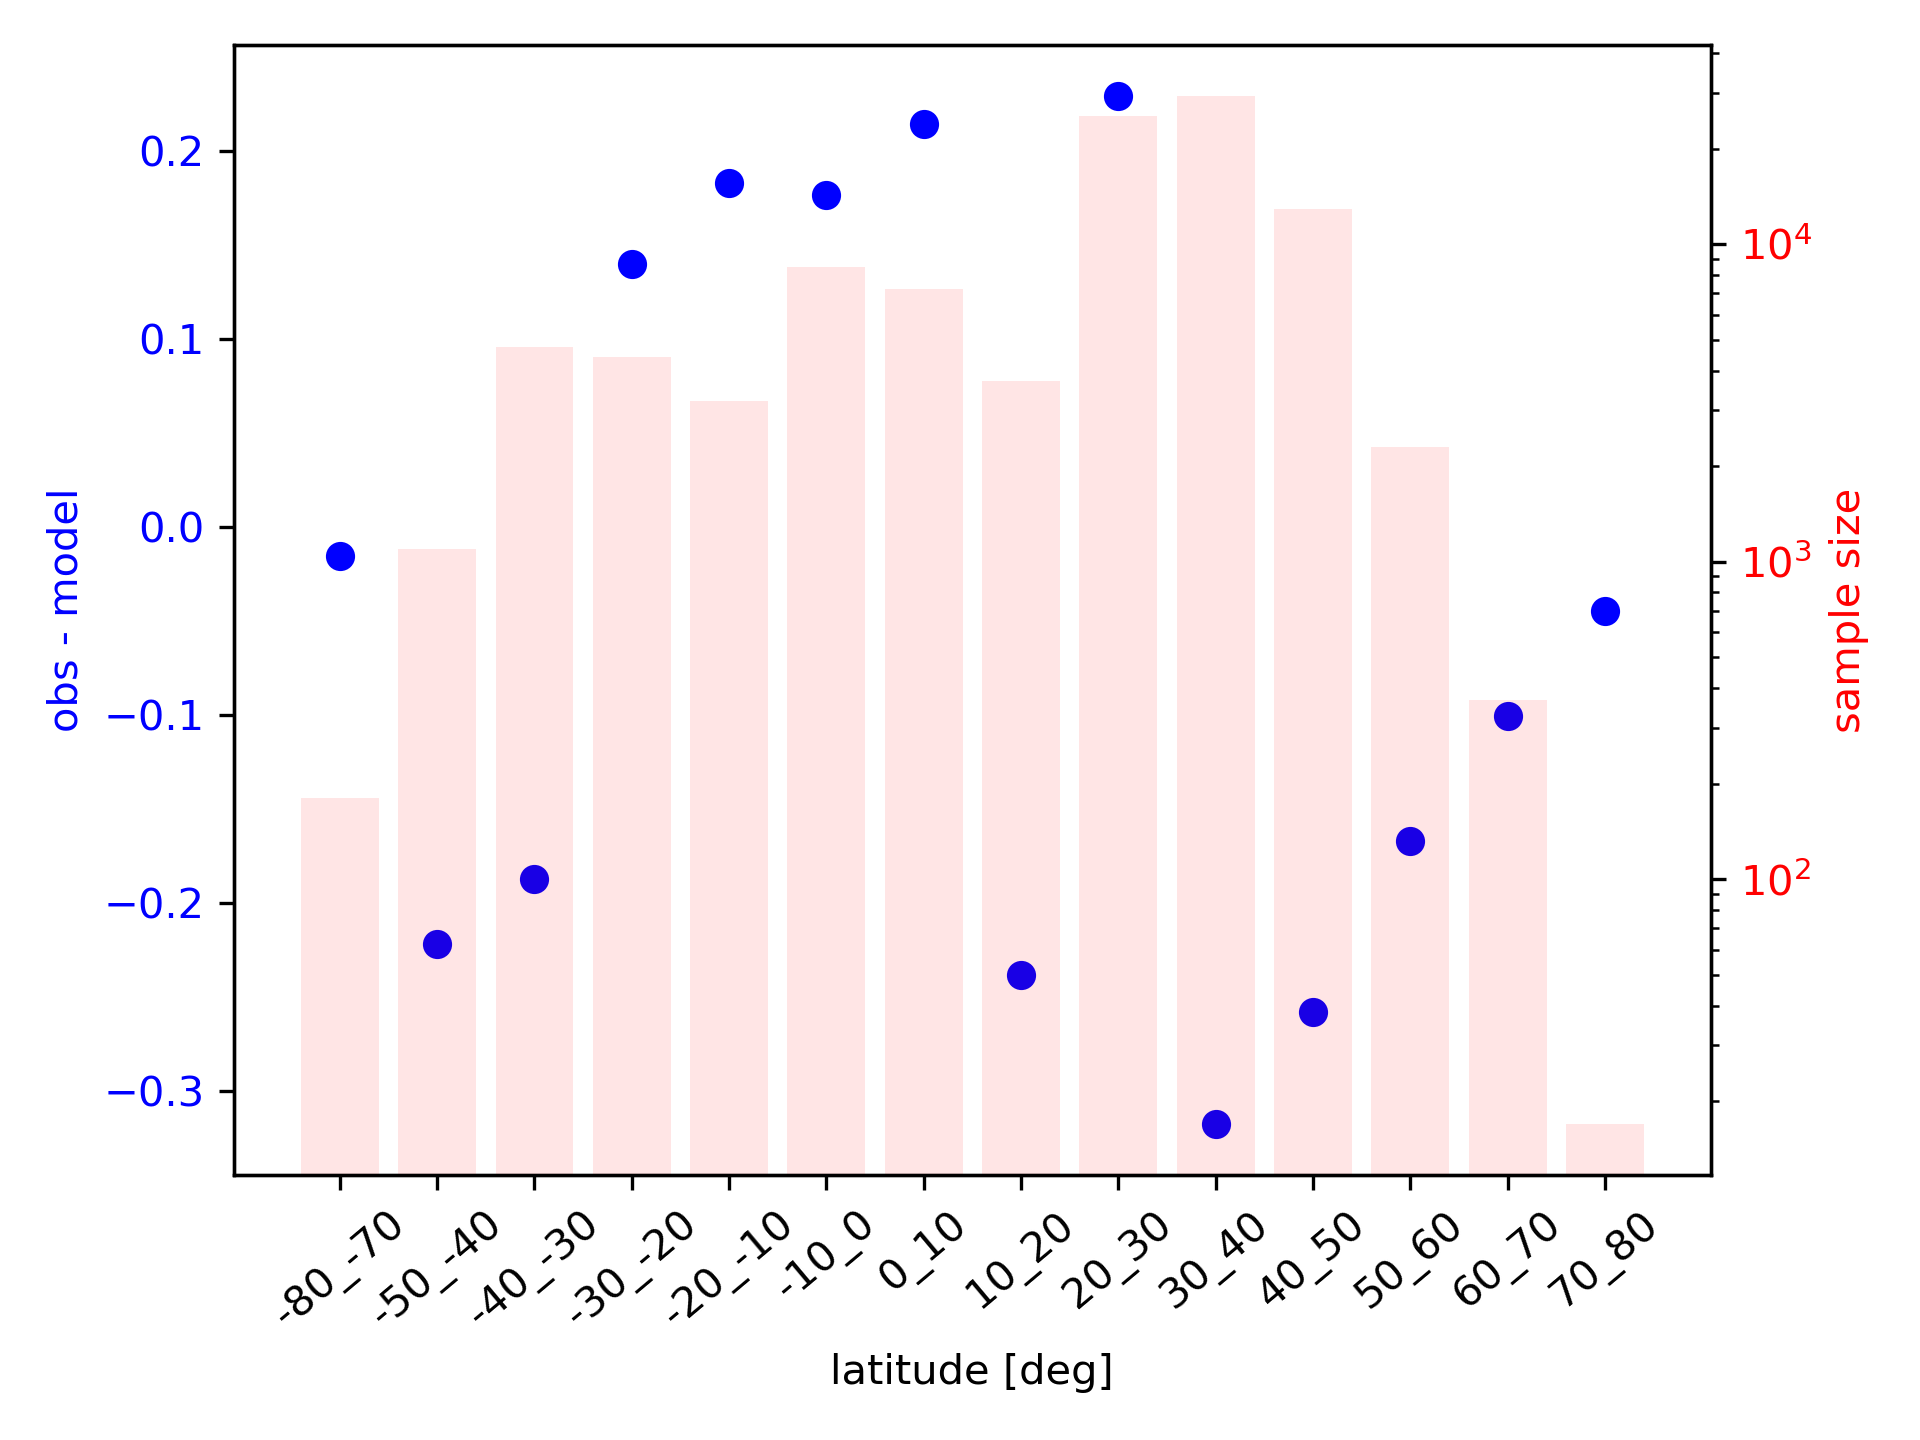
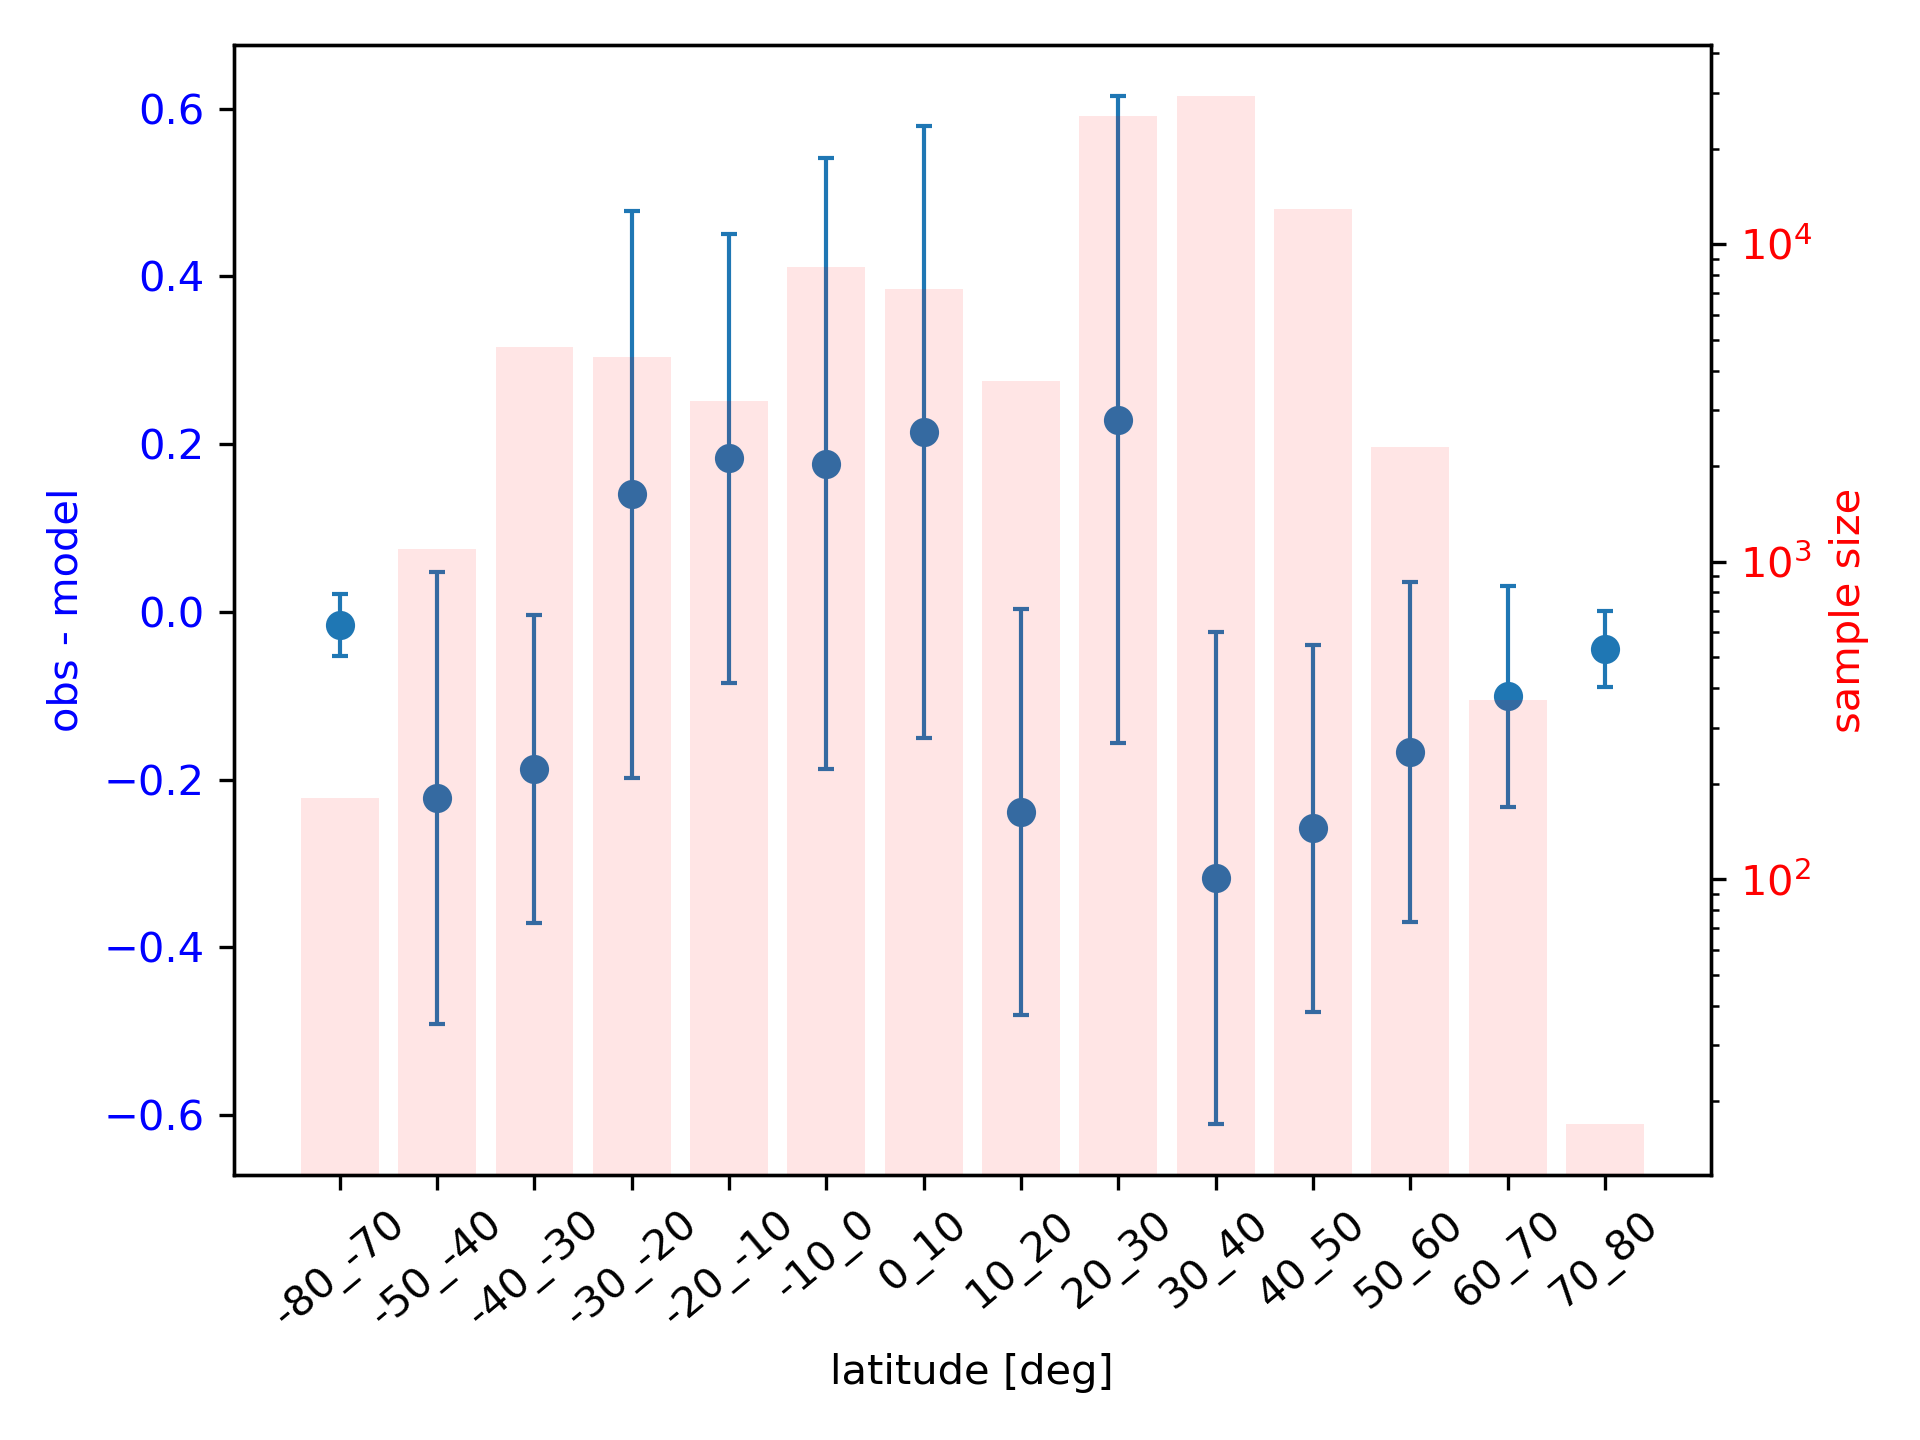
residual errorbar

diff --git a/CBIOMES2020/python/comparePlot.py b/CBIOMES2020/python/comparePlot.py
@@ -204,16 +204,17 @@ def stackFiles(obsCol, modCol, files):
 
 def plot_aggregated_err_by_depth(df, figDir):
     depth = [0, 5, 10, 20, 40, 100, 200, 500, 1000, 5000]
-    xs, errs, samples = [], [], []
+    xs, errs, samples, errs_std = [], [], [], []
     for i in range(1, len(depth)):
         sub = df.query("depth>=%f and depth<%f" % (depth[i-1], depth[i]))
         if len(sub) < 1: continue
         errs.append(sub.err.mean())
+        errs_std.append(sub.err.std())
         xs.append("%d_%d" % (depth[i-1], depth[i]))
         samples.append(len(sub))
     plt.clf()
     _, ax1 = plt.subplots()
-    ax1.plot(xs, errs, "bo", zorder=0)
+    ax1.errorbar(xs, errs, errs_std, marker="o", ls="none", capsize=2, elinewidth=1, zorder=0)
     ax1.tick_params(axis="y", labelcolor='b') 
     ax1.set_xlabel("depth [m]")
     ax1.set_ylabel("obs - model", color='b')
@@ -234,16 +235,17 @@ def plot_aggregated_err_by_depth(df, figDir):
 
 def plot_aggregated_err_by_lat(df, figDir):
     lat = np.arange(-90, 90.1, 10)
-    xs, errs, samples = [], [], []
+    xs, errs, samples, errs_std = [], [], [], []
     for i in range(1, len(lat)):
         sub = df.query("lat>=%f and lat<%f" % (lat[i-1], lat[i]))
         if len(sub) < 1: continue
         errs.append(sub.err.mean())
+        errs_std.append(sub.err.std())
         xs.append("%d_%d" % (lat[i-1], lat[i]))
         samples.append(len(sub))
     plt.clf()
     _, ax1 = plt.subplots()
-    ax1.plot(xs, errs, "bo", zorder=0)
+    ax1.errorbar(xs, errs, errs_std, marker="o", ls="none", capsize=2, elinewidth=1, zorder=0)
     ax1.tick_params(axis="y", labelcolor='b') 
     ax1.set_xlabel("latitude [deg]")
     ax1.set_ylabel("obs - model", color='b')
@@ -264,11 +266,12 @@ def plot_aggregated_err_by_lat(df, figDir):
 def plot_aggregated_err_by_month(df, figDir):
     df["month"] = pd.to_datetime(df["time"]).dt.month
     df = df.query("lat>=0")
-    df = df.groupby("month").agg({"lat": "size", "err": "mean"}).rename(columns={"lat": "count", "err": "err"}).reset_index()
+    df = df.assign(err_std=df["err"])
+    df = df.groupby("month").agg({"lat": "size", "err": "mean", "err_std": "std"}).rename(columns={"lat": "count", "err": "err", "err_std": "err_std"}).reset_index()
 
     plt.clf()
     _, ax1 = plt.subplots()
-    ax1.plot(df.month, df.err, "bo", zorder=0)
+    ax1.errorbar(df.month, df.err, df.err_std, marker="o", ls="none", capsize=2, elinewidth=1, zorder=0)
     ax1.tick_params(axis="y", labelcolor='b') 
     ax1.set_xlabel("month")
     ax1.set_ylabel("obs - model", color='b')
